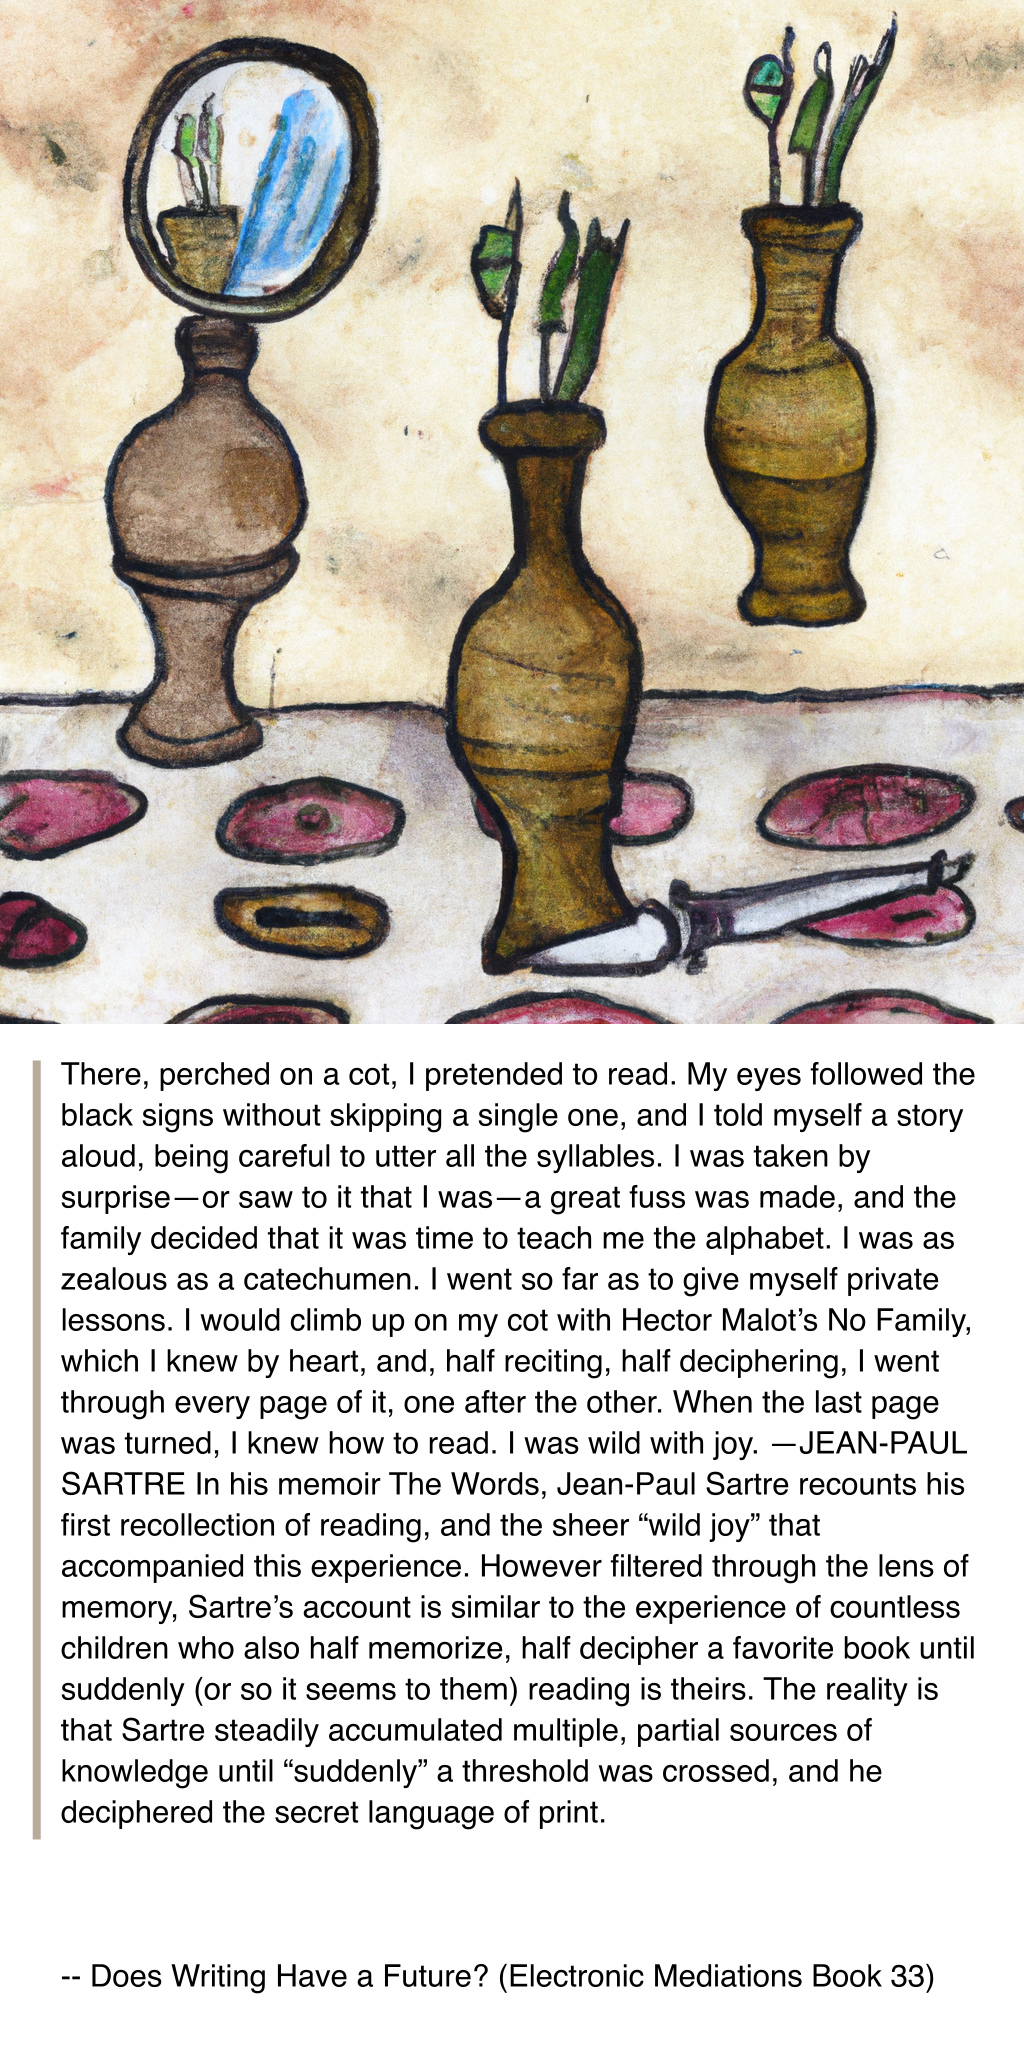
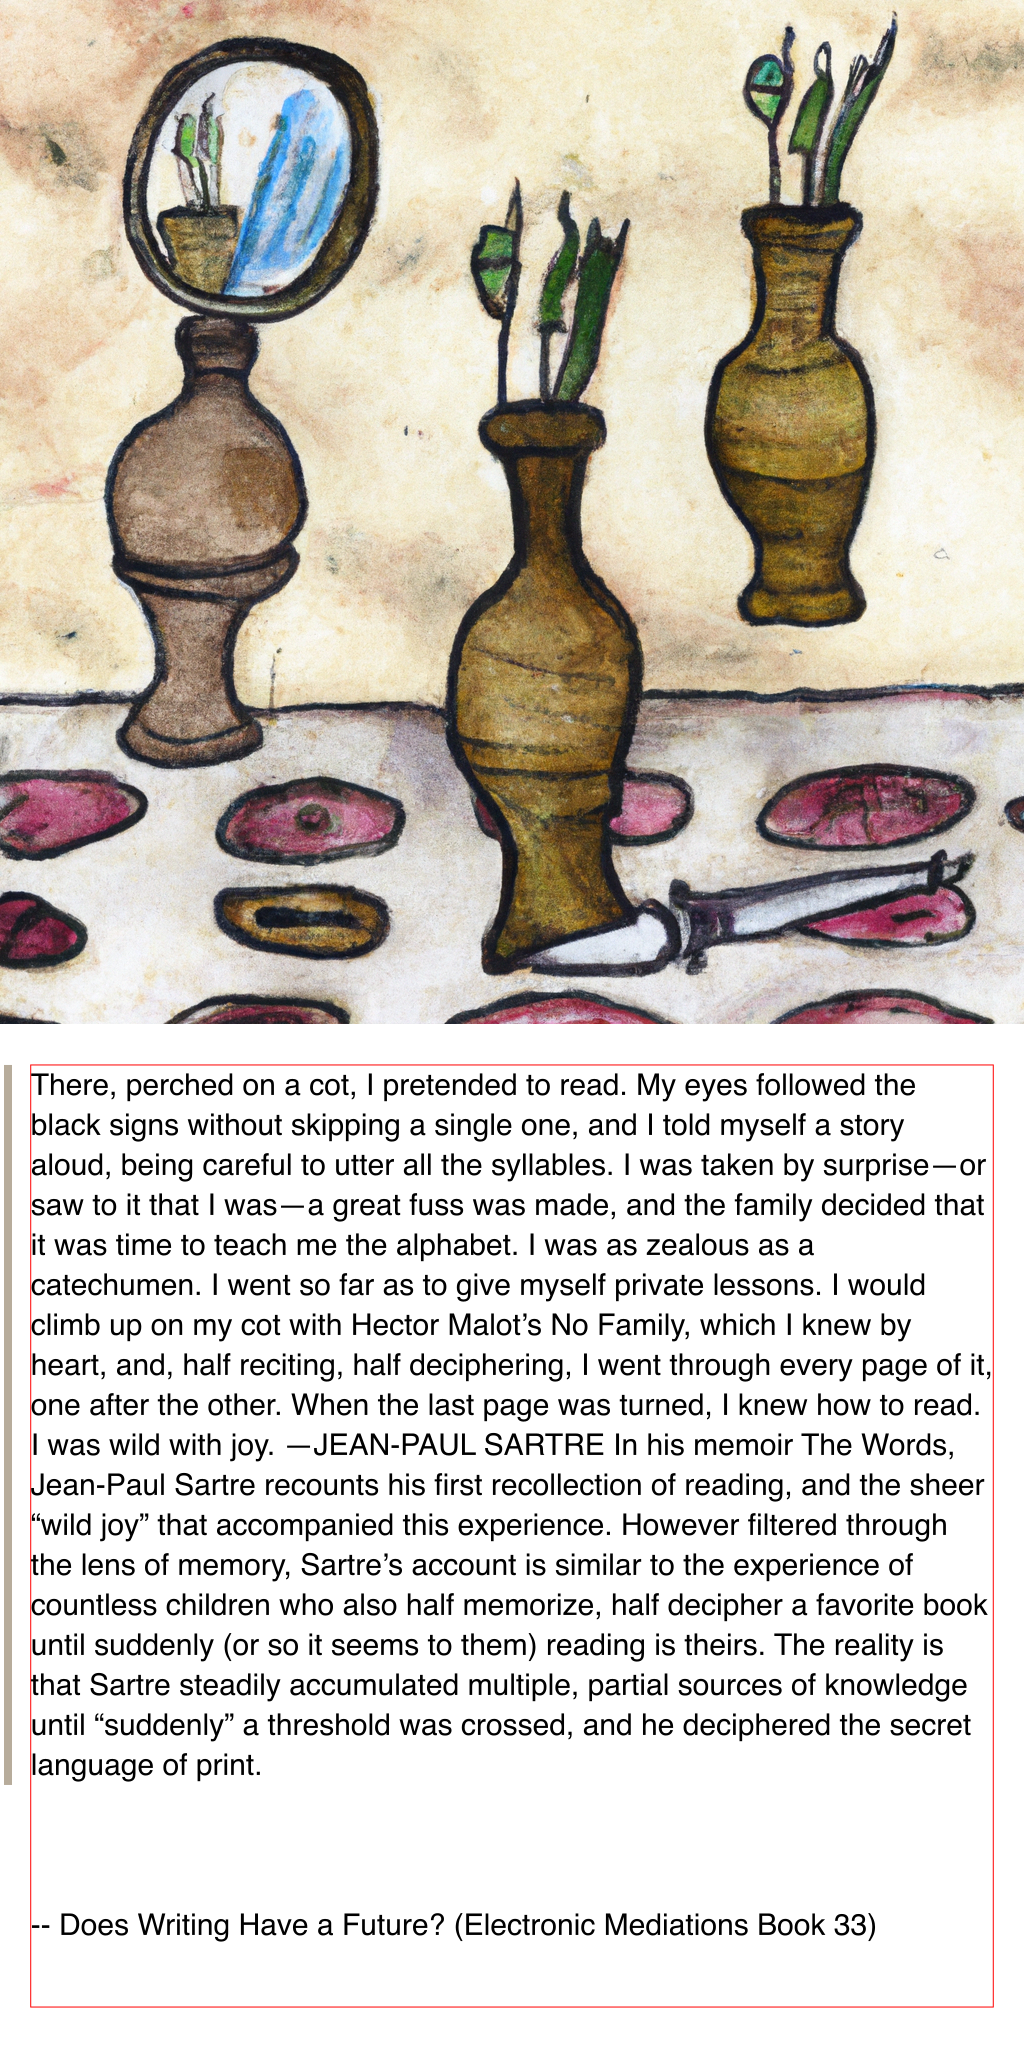
debug

Changed region(s): [[0.0, 0.5, 0.9688, 0.9062], [0.0625, 0.9375, 0.9062, 0.9688]]

diff --git a/share-pic.js b/share-pic.js
@@ -150,17 +150,25 @@ async function overlayTextOnImage(imageUrl, text) {
     ctx.fillStyle = "white";
     ctx.fillRect(0, 0, canvas.width, canvas.height);
 
-    const rectWidth = 1024 * 0.94;
-    const rectHeight = 1024 * 0.96;
+    const rectWidth = 1024 * 0.94; // == 962.56
+    const rectHeight = 1024 * 0.92; // == 942.08
+
+    // center the rectangle in the bottom half 1024, 1024 of the canvas
     const rectX = (1024 - rectWidth) / 2;
-    const rectY = 1024 + (1024 - rectHeight) / 2; // Position the text block under the image
+    const rectY = 1024 + (1024 - rectHeight) / 2; // == 1050.96
+
+
+  // superimpose the rectangle on the canvas as a 1px red border for debugging
+    ctx.strokeStyle = "red";
+    ctx.lineWidth = 1;
+    ctx.strokeRect(rectX, rectY, rectWidth, rectHeight);
 
     // Fetch and load the image
     const img = await loadImage(imageUrl);
     ctx.drawImage(img, 0, 0, 1024, 1024); // Draw the image at the top
 
     // Word wrapping logic and text rendering
-    let fontSize = 80;
+    let fontSize = 72;
     ctx.font = `${fontSize}px Helvetica`;
     let lines = [];
     let blockHeight;
@@ -176,7 +184,7 @@ async function overlayTextOnImage(imageUrl, text) {
         for (let i = 0; i < words.length; i++) {
           const word = words[i];
           const width = ctx.measureText(currentLine + " " + word).width;
-          if (width < rectWidth - 38) {
+          if (width < rectWidth - 0) {
             // ~80px padding on each side
             currentLine += (currentLine ? " " : "") + word;
           } else {
@@ -230,8 +238,8 @@ async function overlayTextOnImage(imageUrl, text) {
     const linesAfterCitation = lines.slice(citationIndex);
     const rectangleHeight = (linesBeforeCitation.length - 3) * (fontSize + 10); // Exclude the last line (citation)
     ctx.fillRect(
-      textXStart + rectX,
-      rectY + fontSize - 15,
+      4,
+      rectY,
       rectangleWidth,
       rectangleHeight
     );
@@ -240,9 +248,16 @@ async function overlayTextOnImage(imageUrl, text) {
     // Draw each line of text in the bottom half
     ctx.fillStyle = "black";
     for (let i = 0; i < lines.length; i++) {
-      ctx.fillText(lines[i], rectX + 30, rectY + 40 + i * (fontSize + 10)); // Start drawing 20px below the image
-      // if (i == 0) console.log(rectX + 30, 1024 + 80 + i * (fontSize + 10))
+      // use rectX and rectY to offset the text
+      ctx.fillText(
+        lines[i],
+        rectX + 0,
+        rectY + 0 + fontSize + i * (fontSize + 10)
+      );
     }
+
+    
+
 
     // Convert canvas to buffer
     const buffer = canvas.toBuffer();
